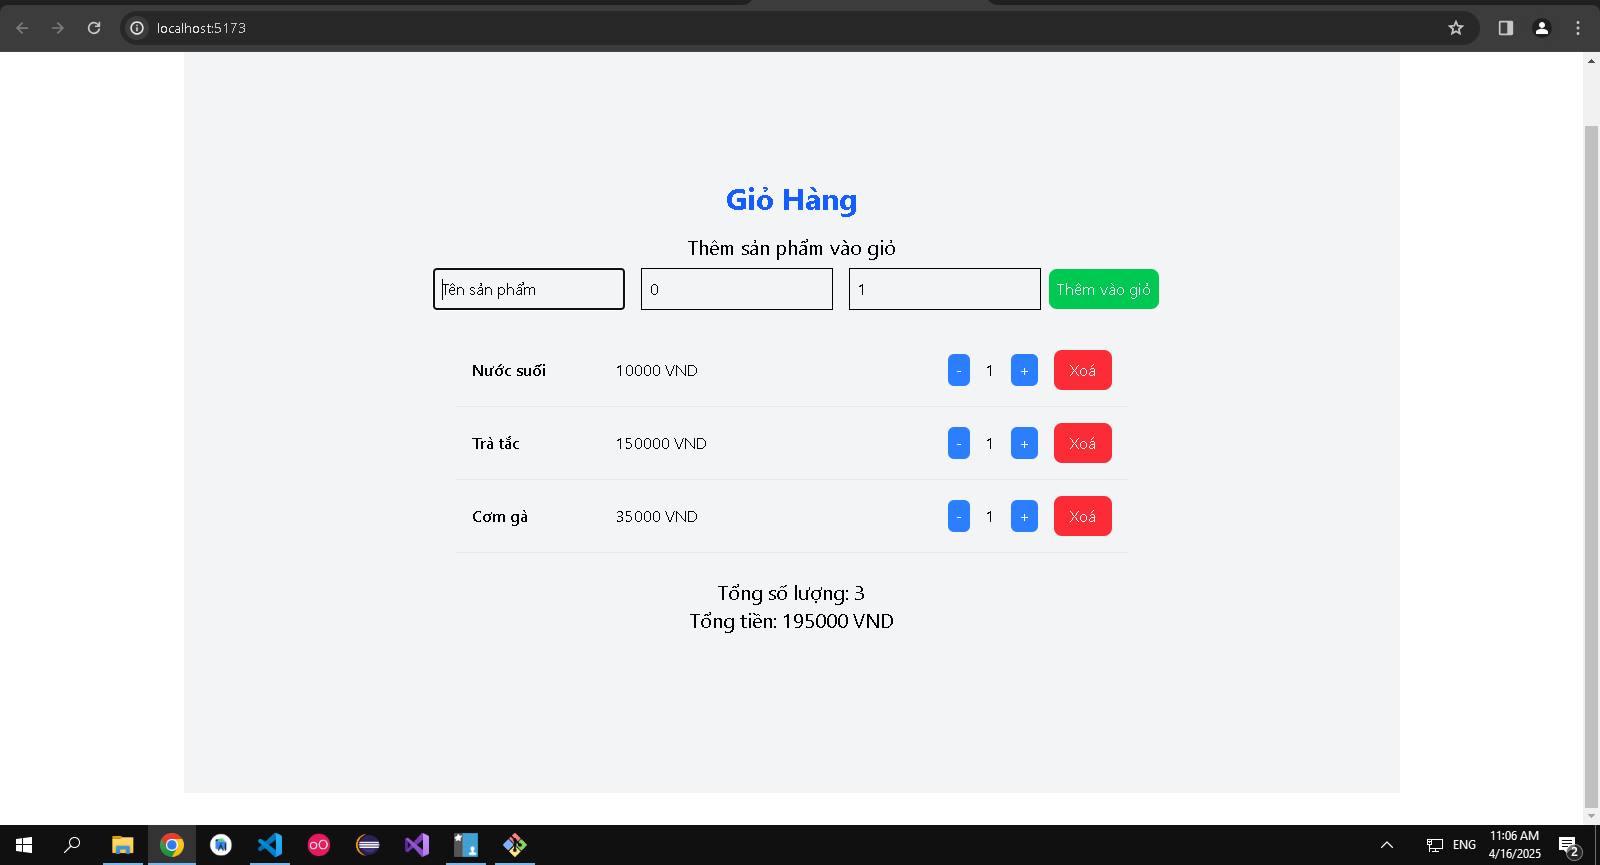
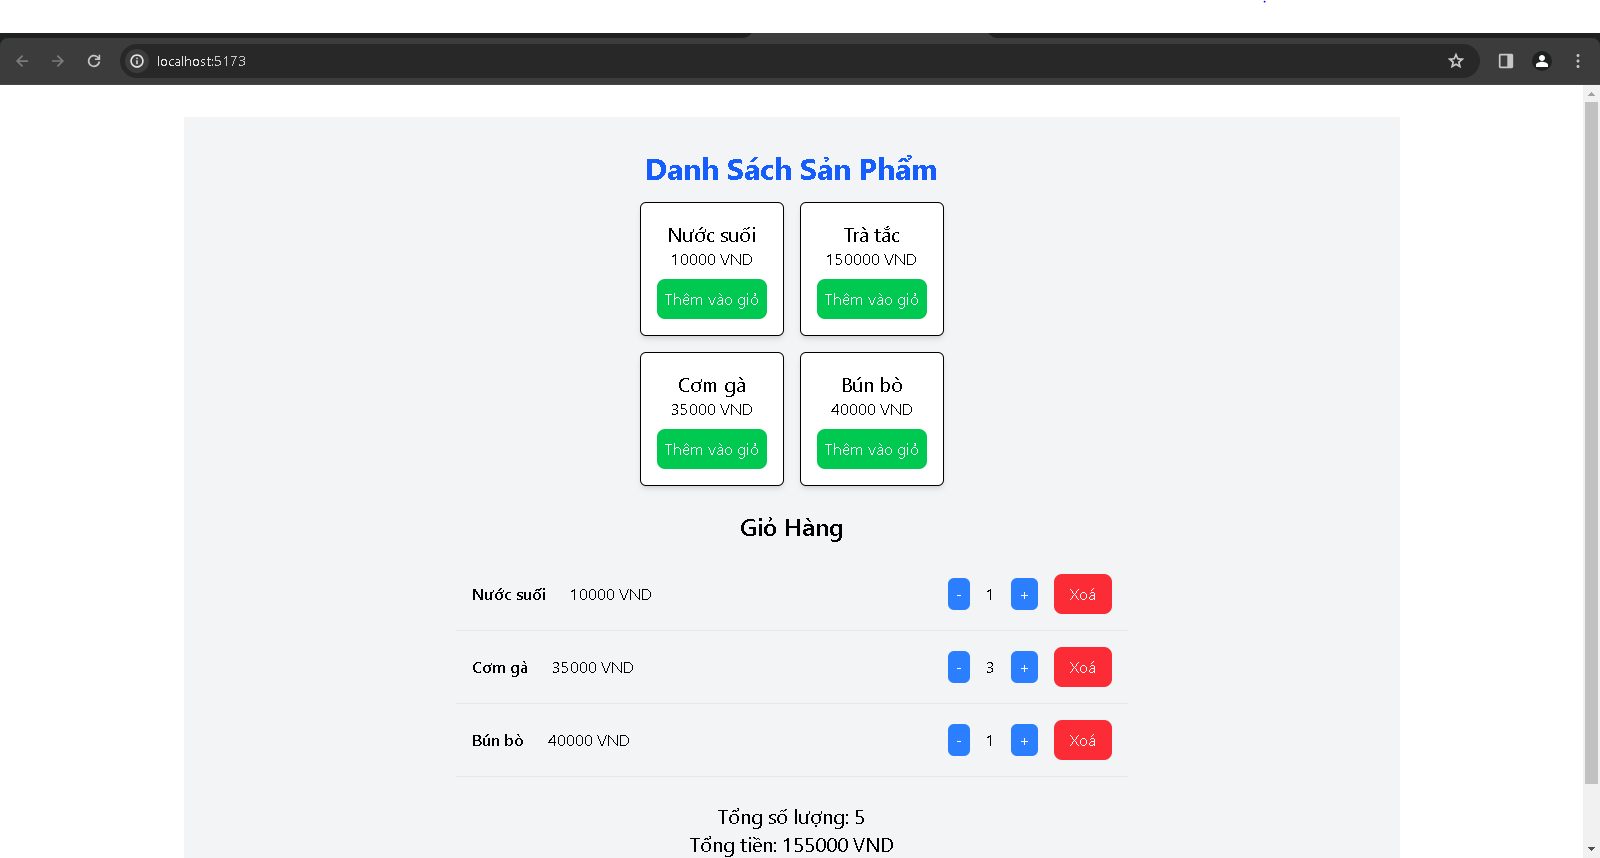
redo bai4 shopping Cart

diff --git a/Tuan09/redux/src/features/cart/ShoppingCart.jsx b/Tuan09/redux/src/features/cart/ShoppingCart.jsx
@@ -1,104 +1,93 @@
 // src/features/cart/ShoppingCart.jsx
-
 import React, { useState } from 'react';
 import { useDispatch, useSelector } from 'react-redux';
 import { addItem, removeItem, updateQuantity } from './cartSlice';
 
 export default function ShoppingCart() {
   const dispatch = useDispatch();
-  const cartItems = useSelector(state => state.cart.cartItems);
+  const { cartItems, totalQuantity, totalPrice } = useSelector((state) => state.cart);
 
-  const totalPrice = cartItems.reduce((total, item) => total + item.price * item.quantity, 0);
-  const totalQuantity = cartItems.reduce((total, item) => total + item.quantity, 0);
-
-  // Sản phẩm mới muốn thêm vào giỏ
-  const [newItem, setNewItem] = useState({
-    name: '',
-    price: 0,
-    quantity: 1,
-  });
+  // Danh sách sản phẩm để hiển thị
+  const products = [
+    { id: '1', name: 'Nước suối', price: 10000, quantity: 1 },
+    { id: '2', name: 'Trà tắc', price: 150000, quantity: 1 },
+    { id: '3', name: 'Cơm gà', price: 35000, quantity: 1 },
+    { id: '4', name: 'Bún bò', price: 40000, quantity: 1 },
+  ];
 
   // Hàm thêm sản phẩm vào giỏ
-  const handleAddItem = () => {
-    if (!newItem.name || newItem.price <= 0) {
-      alert('Vui lòng nhập thông tin sản phẩm hợp lệ!');
-      return;
+  const handleAddItem = (product) => {
+    const productToAdd = { ...product, quantity: 1 }; // Sản phẩm với số lượng mặc định là 1
+    dispatch(addItem(productToAdd));
+  };
+
+  // Hàm giảm số lượng sản phẩm trong giỏ
+  const handleDecrement = (id) => {
+    const item = cartItems.find((item) => item.id === id);
+    if (item.quantity > 1) {
+      dispatch(updateQuantity({ id, quantity: item.quantity - 1 }));
     }
+  };
 
-    // Tạo ID tự động (sử dụng thời gian hiện tại để tạo ID duy nhất)
-    const newItemWithId = {
-      ...newItem,
-      id: Date.now().toString(),
-    };
+  // Hàm tăng số lượng sản phẩm trong giỏ
+  const handleIncrement = (id) => {
+    const item = cartItems.find((item) => item.id === id);
+    dispatch(updateQuantity({ id, quantity: item.quantity + 1 }));
+  };
 
-    dispatch(addItem(newItemWithId));
-    setNewItem({ name: '', price: 0, quantity: 1 }); // Reset form
+  // Hàm xóa sản phẩm khỏi giỏ
+  const handleRemoveItem = (id) => {
+    dispatch(removeItem(id));
   };
 
   return (
     <div className="flex flex-col items-center justify-center min-h-screen bg-gray-100">
-      <h1 className="text-3xl font-bold text-blue-600 mb-4">Giỏ Hàng</h1>
-      
-      {/* Form thêm sản phẩm */}
-      <div className="mb-4">
-        <h2 className="text-xl">Thêm sản phẩm vào giỏ</h2>
-        <input
-          type="text"
-          placeholder="Tên sản phẩm"
-          value={newItem.name}
-          onChange={(e) => setNewItem({ ...newItem, name: e.target.value })}
-          className="p-2 m-2 border"
-        />
-        <input
-          type="text"
-          placeholder="Giá sản phẩm"
-          value={newItem.price}
-          onChange={(e) => setNewItem({ ...newItem, price: parseFloat(e.target.value) })}
-          className="p-2 m-2 border"
-        />
-        <input
-          type="text"
-          placeholder="Số lượng"
-          value={newItem.quantity}
-          onChange={(e) => setNewItem({ ...newItem, quantity: parseInt(e.target.value) })}
-          className="p-2 m-2 border"
-        />
-        <button
-          onClick={handleAddItem}
-          className="bg-green-500 text-white p-2 rounded-lg mt-2 hover:bg-green-600"
-        >
-          Thêm vào giỏ
-        </button>
+      <h1 className="text-3xl font-bold text-blue-600 mb-4">Danh Sách Sản Phẩm</h1>
+
+      {/* Hiển thị danh sách sản phẩm */}
+      <div className="grid grid-cols-2 gap-4 mb-6">
+        {products.map((product) => (
+          <div key={product.id} className="border p-4 rounded-md bg-white shadow-md">
+            <h2 className="text-xl">{product.name}</h2>
+            <p>{product.price} VND</p>
+            <button
+              onClick={() => handleAddItem(product)}
+              className="mt-2 bg-green-500 text-white p-2 rounded-lg hover:bg-green-600"
+            >
+              Thêm vào giỏ
+            </button>
+          </div>
+        ))}
       </div>
 
-      {/* Hiển thị sản phẩm trong giỏ hàng */}
+      {/* Hiển thị giỏ hàng */}
+      <h2 className="text-2xl font-semibold mb-4">Giỏ Hàng</h2>
       {cartItems.length === 0 ? (
-        <p className="text-xl text-gray-500">Giỏ hàng của bạn đang trống</p>
+        <p className="text-lg text-gray-500">Giỏ hàng của bạn đang trống</p>
       ) : (
         <ul className="w-full max-w-2xl">
-          {cartItems.map(item => (
+          {cartItems.map((item) => (
             <li key={item.id} className="flex justify-between items-center p-4 border-b border-gray-200">
               <div className="flex gap-2 items-center space-x-4">
-                <span className="font-semibold w-30 text-left ">{item.name}</span>
+                <span className="font-semibold">{item.name}</span>
                 <span>{item.price} VND</span>
               </div>
               <div className="flex items-center space-x-4">
                 <button
-                  onClick={() => dispatch(updateQuantity({ id: item.id, quantity: item.quantity - 1 }))}
+                  onClick={() => handleDecrement(item.id)}
                   className="bg-blue-500 text-white px-2 py-1 rounded-md hover:bg-blue-600"
                 >
                   -
                 </button>
                 <span>{item.quantity}</span>
-                
                 <button
-                  onClick={() => dispatch(updateQuantity({ id: item.id, quantity: item.quantity + 1 }))}
+                  onClick={() => handleIncrement(item.id)}
                   className="bg-blue-500 text-white px-2 py-1 rounded-md hover:bg-blue-600"
                 >
                   +
                 </button>
                 <button
-                  onClick={() => dispatch(removeItem({ id: item.id }))}
+                  onClick={() => handleRemoveItem(item.id)}
                   className="bg-red-500 text-white px-4 py-2 rounded-lg hover:bg-red-600"
                 >
                   Xoá
@@ -109,7 +98,7 @@ export default function ShoppingCart() {
         </ul>
       )}
 
-      {/* Tổng tiền và tổng số lượng */}
+      {/* Hiển thị tổng số lượng và tổng tiền */}
       <div className="mt-6 text-xl">
         <p>Tổng số lượng: {totalQuantity}</p>
         <p>Tổng tiền: {totalPrice} VND</p>

diff --git a/Tuan09/redux/src/features/cart/cartSlice.js b/Tuan09/redux/src/features/cart/cartSlice.js
@@ -1,43 +1,57 @@
 // src/features/cart/cartSlice.js
 import { createSlice } from '@reduxjs/toolkit';
 
-// Mảng sản phẩm có sẵn
-const initialProducts = [
-  { id: '1', name: 'Nước suối', price: 10000, quantity: 1 },
-  { id: '2', name: 'Trà tắc', price: 150000, quantity: 1 },
-  { id: '3', name: 'Cơm gà', price: 35000, quantity: 1 },
-];
+// Khởi tạo state ban đầu
+const initialState = {
+  cartItems: [],
+  totalQuantity: 0,
+  totalPrice: 0,
+};
 
+// Tạo slice cho cart
 const cartSlice = createSlice({
   name: 'cart',
-  initialState: {
-    cartItems: [...initialProducts], // Giỏ hàng ban đầu có sẵn sản phẩm
-  },
+  initialState,
   reducers: {
-    // Thêm sản phẩm vào giỏ hàng
+    // Thêm sản phẩm vào giỏ
     addItem: (state, action) => {
-      const itemIndex = state.cartItems.findIndex(item => item.id === action.payload.id);
-      if (itemIndex >= 0) {
-        // Nếu sản phẩm đã có trong giỏ, tăng số lượng
-        state.cartItems[itemIndex].quantity += action.payload.quantity;
+      const item = action.payload;
+      const existingItem = state.cartItems.find((i) => i.id === item.id);
+
+      if (existingItem) {
+        existingItem.quantity += item.quantity;
       } else {
-        // Nếu sản phẩm chưa có trong giỏ, thêm mới
-        state.cartItems.push(action.payload);
+        state.cartItems.push(item);
       }
+
+      // Cập nhật lại tổng số lượng và tổng tiền
+      state.totalQuantity = state.cartItems.reduce((total, item) => total + item.quantity, 0);
+      state.totalPrice = state.cartItems.reduce((total, item) => total + item.price * item.quantity, 0);
     },
-    // Xoá sản phẩm khỏi giỏ hàng
+    // Xóa sản phẩm khỏi giỏ
     removeItem: (state, action) => {
-      state.cartItems = state.cartItems.filter(item => item.id !== action.payload.id);
+      const id = action.payload;
+      state.cartItems = state.cartItems.filter((item) => item.id !== id);
+
+      // Cập nhật lại tổng số lượng và tổng tiền
+      state.totalQuantity = state.cartItems.reduce((total, item) => total + item.quantity, 0);
+      state.totalPrice = state.cartItems.reduce((total, item) => total + item.price * item.quantity, 0);
     },
     // Cập nhật số lượng sản phẩm trong giỏ
     updateQuantity: (state, action) => {
-      const itemIndex = state.cartItems.findIndex(item => item.id === action.payload.id);
-      if (itemIndex >= 0) {
-        state.cartItems[itemIndex].quantity = action.payload.quantity;
+      const { id, quantity } = action.payload;
+      const item = state.cartItems.find((item) => item.id === id);
+      if (item) {
+        item.quantity = quantity;
       }
+
+      // Cập nhật lại tổng số lượng và tổng tiền
+      state.totalQuantity = state.cartItems.reduce((total, item) => total + item.quantity, 0);
+      state.totalPrice = state.cartItems.reduce((total, item) => total + item.price * item.quantity, 0);
     },
   },
 });
 
+// Xuất các action để sử dụng trong component
 export const { addItem, removeItem, updateQuantity } = cartSlice.actions;
 export default cartSlice.reducer;

diff --git a/Tuan09/redux/src/features/auth/Auth.jsx b/Tuan09/redux/src/features/auth/Auth.jsx
@@ -1,0 +1,82 @@
+// src/features/auth/Auth.jsx
+
+import React, { useState } from 'react';
+import { useDispatch, useSelector } from 'react-redux';
+import { login, logout } from './authSlice';
+
+export default function Auth() {
+  const dispatch = useDispatch();
+  const { user, isLoggedIn } = useSelector((state) => state.auth);
+
+  // State để lưu tên và mật khẩu khi người dùng nhập
+  const [username, setUsername] = useState('');
+  const [password, setPassword] = useState('');
+
+  // Hàm xử lý đăng nhập
+  const handleLogin = () => {
+    if (username === '' || password === '') {
+      alert('Vui lòng nhập thông tin đầy đủ!');
+      return;
+    }
+
+    // Giả lập đăng nhập, bạn có thể thay thế phần này bằng API thực tế.
+    const userInfo = {
+      username,
+      email: `${username}@example.com`, // Giả lập email từ tên người dùng
+    };
+
+    dispatch(login(userInfo)); // Gửi thông tin người dùng vào Redux store
+    setUsername('');
+    setPassword('');
+  };
+
+  // Hàm xử lý đăng xuất
+  const handleLogout = () => {
+    dispatch(logout());
+  };
+
+  return (
+    <div className="flex flex-col items-center justify-center min-h-screen bg-gray-100">
+      <h1 className="text-3xl font-bold text-blue-600 mb-4">Quản lý Đăng Nhập</h1>
+
+      {isLoggedIn ? (
+        // Nếu đã đăng nhập
+        <div className="text-center">
+          <h2 className="text-xl mb-2">Chào mừng, {user.username}!</h2>
+          <p>Email: {user.email}</p>
+          <button
+            onClick={handleLogout}
+            className="mt-4 bg-red-500 text-white p-2 rounded-lg hover:bg-red-600"
+          >
+            Đăng xuất
+          </button>
+        </div>
+      ) : (
+        // Nếu chưa đăng nhập
+        <div className="w-1/3">
+          <h2 className="text-xl mb-4">Đăng Nhập</h2>
+          <input
+            type="text"
+            placeholder="Tên người dùng"
+            value={username}
+            onChange={(e) => setUsername(e.target.value)}
+            className="w-full p-2 mb-2 border"
+          />
+          <input
+            type="password"
+            placeholder="Mật khẩu"
+            value={password}
+            onChange={(e) => setPassword(e.target.value)}
+            className="w-full p-2 mb-4 border"
+          />
+          <button
+            onClick={handleLogin}
+            className="w-full bg-green-500 text-white p-2 rounded-lg hover:bg-green-600"
+          >
+            Đăng nhập
+          </button>
+        </div>
+      )}
+    </div>
+  );
+}

diff --git a/Tuan09/redux/src/features/auth/authSlice.js b/Tuan09/redux/src/features/auth/authSlice.js
@@ -1,0 +1,34 @@
+// src/features/auth/authSlice.js
+
+import { createSlice } from '@reduxjs/toolkit';
+
+// Khởi tạo state mặc định
+const initialState = {
+  user: null,
+  isLoggedIn: false,
+};
+
+const authSlice = createSlice({
+  name: 'auth',
+  initialState,
+  reducers: {
+    // Action đăng nhập
+    login: (state, action) => {
+      state.user = action.payload;
+      state.isLoggedIn = true;
+    },
+    // Action đăng xuất
+    logout: (state) => {
+      state.user = null;
+      state.isLoggedIn = false;
+    },
+    // Action thiết lập thông tin người dùng
+    setUserInfo: (state, action) => {
+      state.user = action.payload;
+    },
+  },
+});
+
+// Xuất các action để sử dụng trong component
+export const { login, logout, setUserInfo } = authSlice.actions;
+export default authSlice.reducer;

diff --git a/Tuan09/redux/src/App.jsx b/Tuan09/redux/src/App.jsx
@@ -6,6 +6,7 @@ import Counter from './features/counter/Counter';
 import TodoList from './features/todos/TodoList';
 import ThemeToggle from './features/theme/ThemeToggle';
 import ShoppingCart from './features/cart/ShoppingCart';
+import Auth from './features/auth/Auth';
 
 function App() {
   const [count, setCount] = useState(0)
@@ -20,6 +21,7 @@ function App() {
       <ThemeToggle /> */}
 
         <ShoppingCart />
+        {/* <Auth /> */}
     </>
   )
 }

diff --git a/Tuan09/redux/src/redux/store2.js b/Tuan09/redux/src/redux/store2.js
@@ -1,11 +1,13 @@
 import { configureStore } from '@reduxjs/toolkit';
 import rootReducer from './rootReducer';
 import cartReducer from '../features/cart/cartSlice';
+import authReducer from '../features/auth/authSlice';
 
 const store = configureStore({
   reducer: {
     rootReducer,
     cart: cartReducer,
+    auth: authReducer,
   }
 });
 
